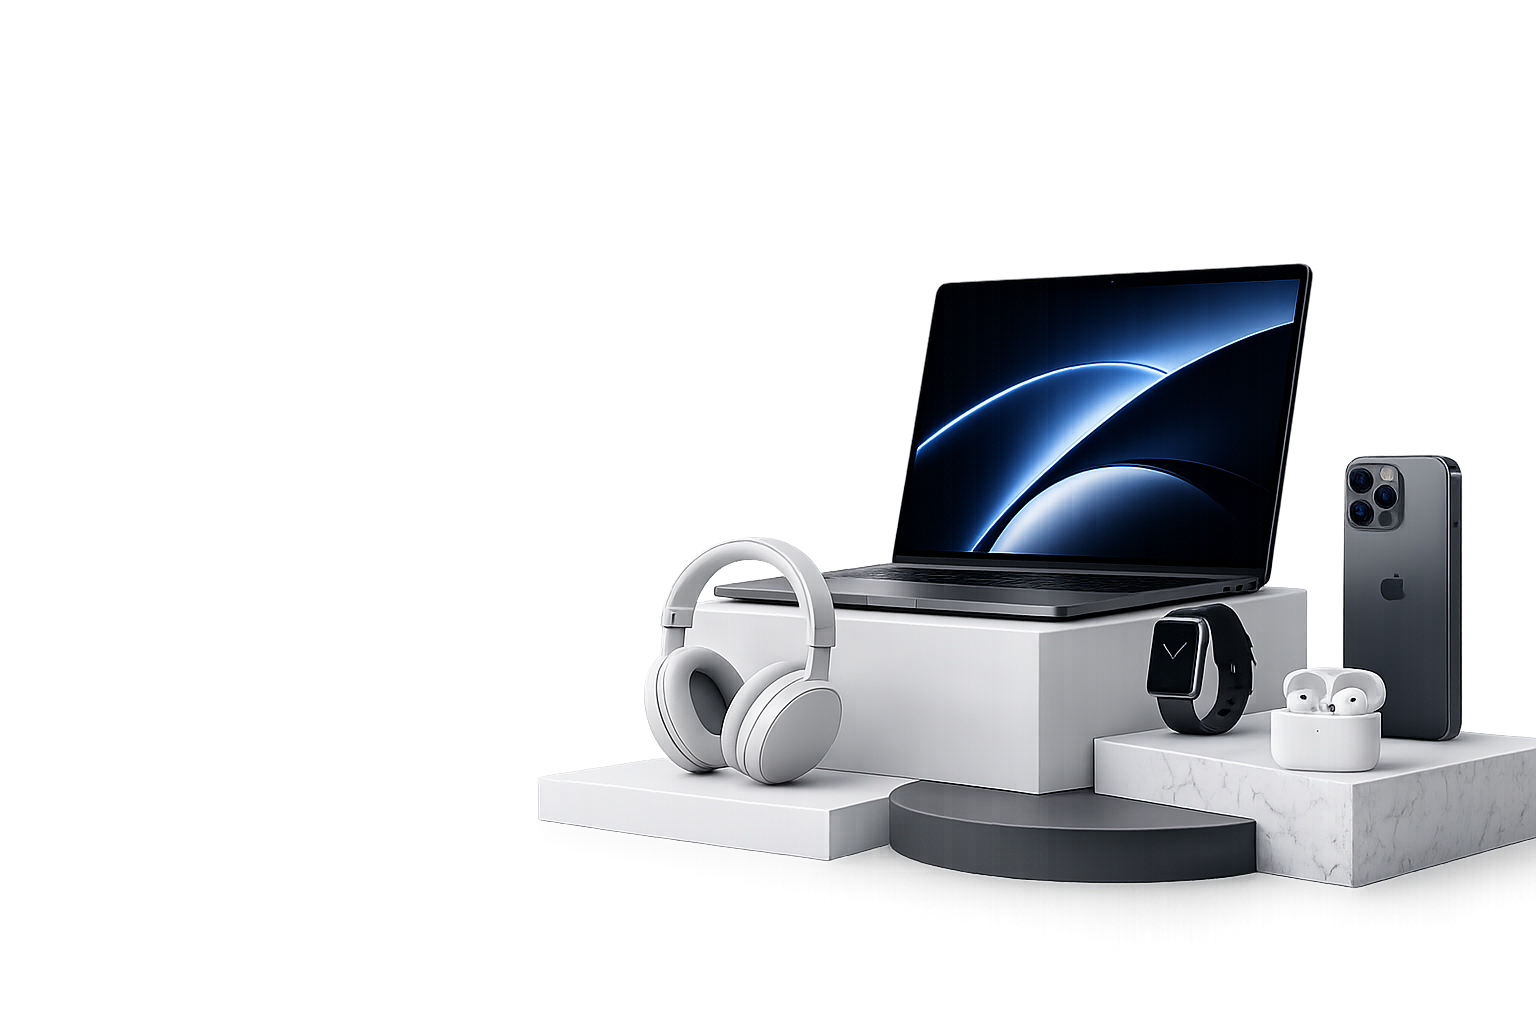
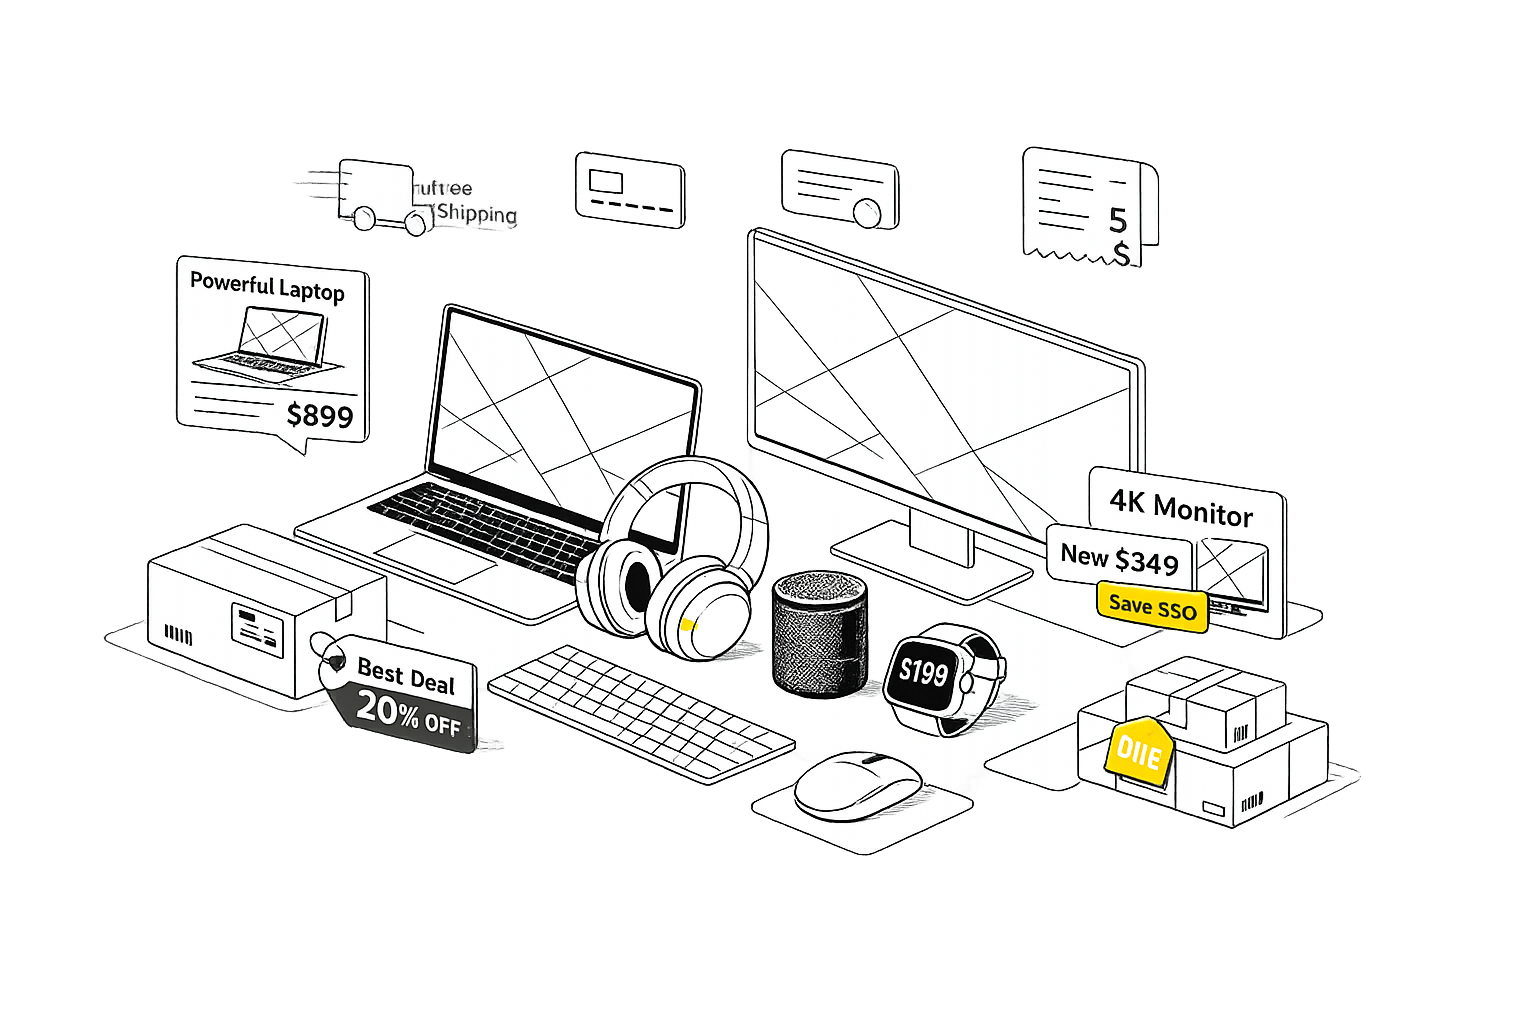
style: update Hero component layout and accent colors for improved aesthetics

diff --git a/src/styles/globals.css b/src/styles/globals.css
@@ -19,8 +19,8 @@
   --border-strong: #c8c7c2; /* neutral-300 */
 
   /* Accent */
-  --accent: #e8ff59;
-  --accent-hover: #d4eb45;
+  --accent: #fedb02;
+  --accent-hover: #ffe14a;
   --accent-text: #1c1b1a; /* روی accent همیشه dark */
 
   /* Shadows */

diff --git a/src/components/sections/Hero.jsx b/src/components/sections/Hero.jsx
@@ -3,7 +3,7 @@ import heroImage from "../../assets/images/hero-image.png";
 
 export default function Hero() {
   return (
-    <section className="mx-auto max-w-6xl px-6">
+    <section className="mx-auto max-w-7xl px-6">
       <div className="grid min-h-[calc(100vh-80px)] items-center lg:grid-cols-2">
         {/* Content */}
         <div className="space-y-12">